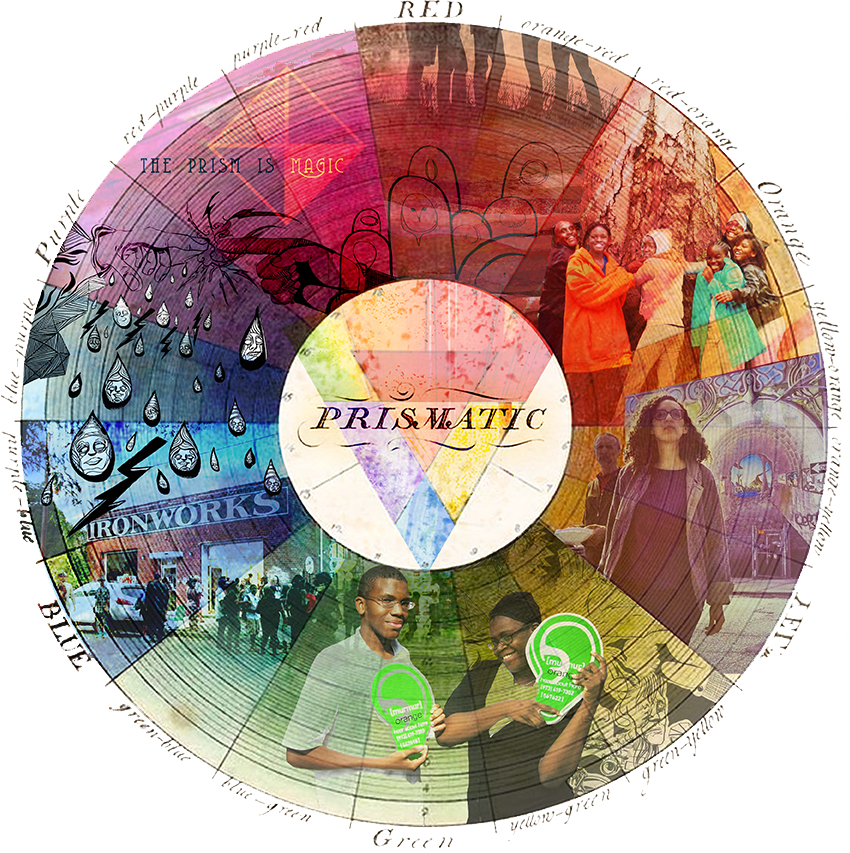
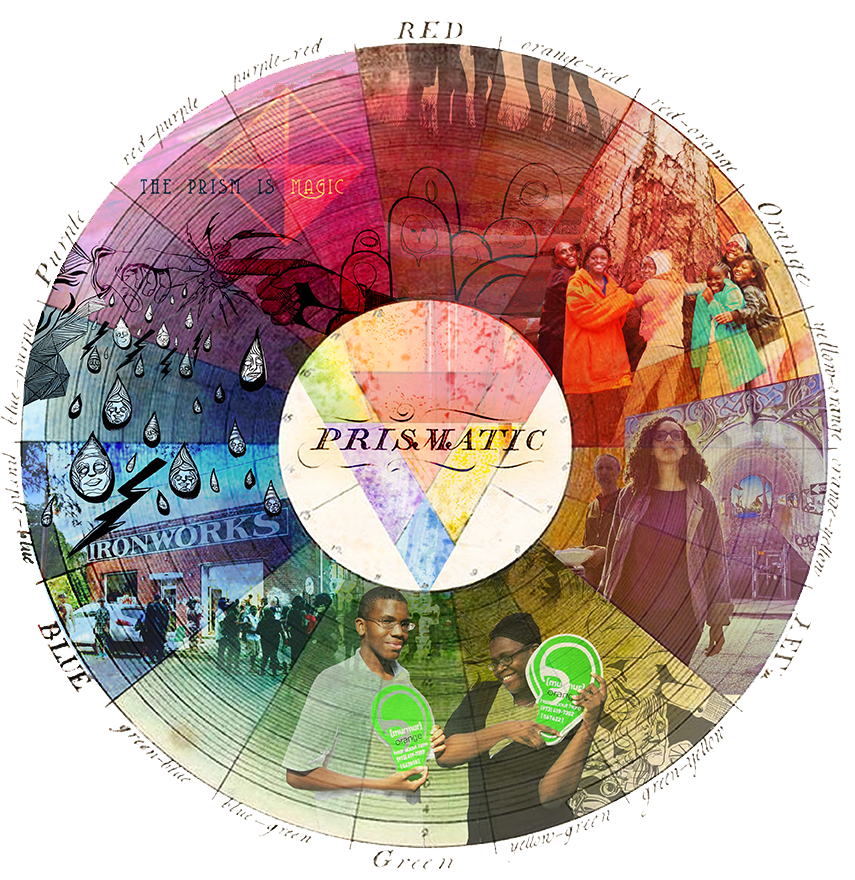
Keep wheel centered

diff --git a/styles/components/prism.scss b/styles/components/prism.scss
@@ -43,7 +43,7 @@
         width: 66%;
 
         img {
-            max-width: 100%;
+            width: 100%;
         }
     }
 
